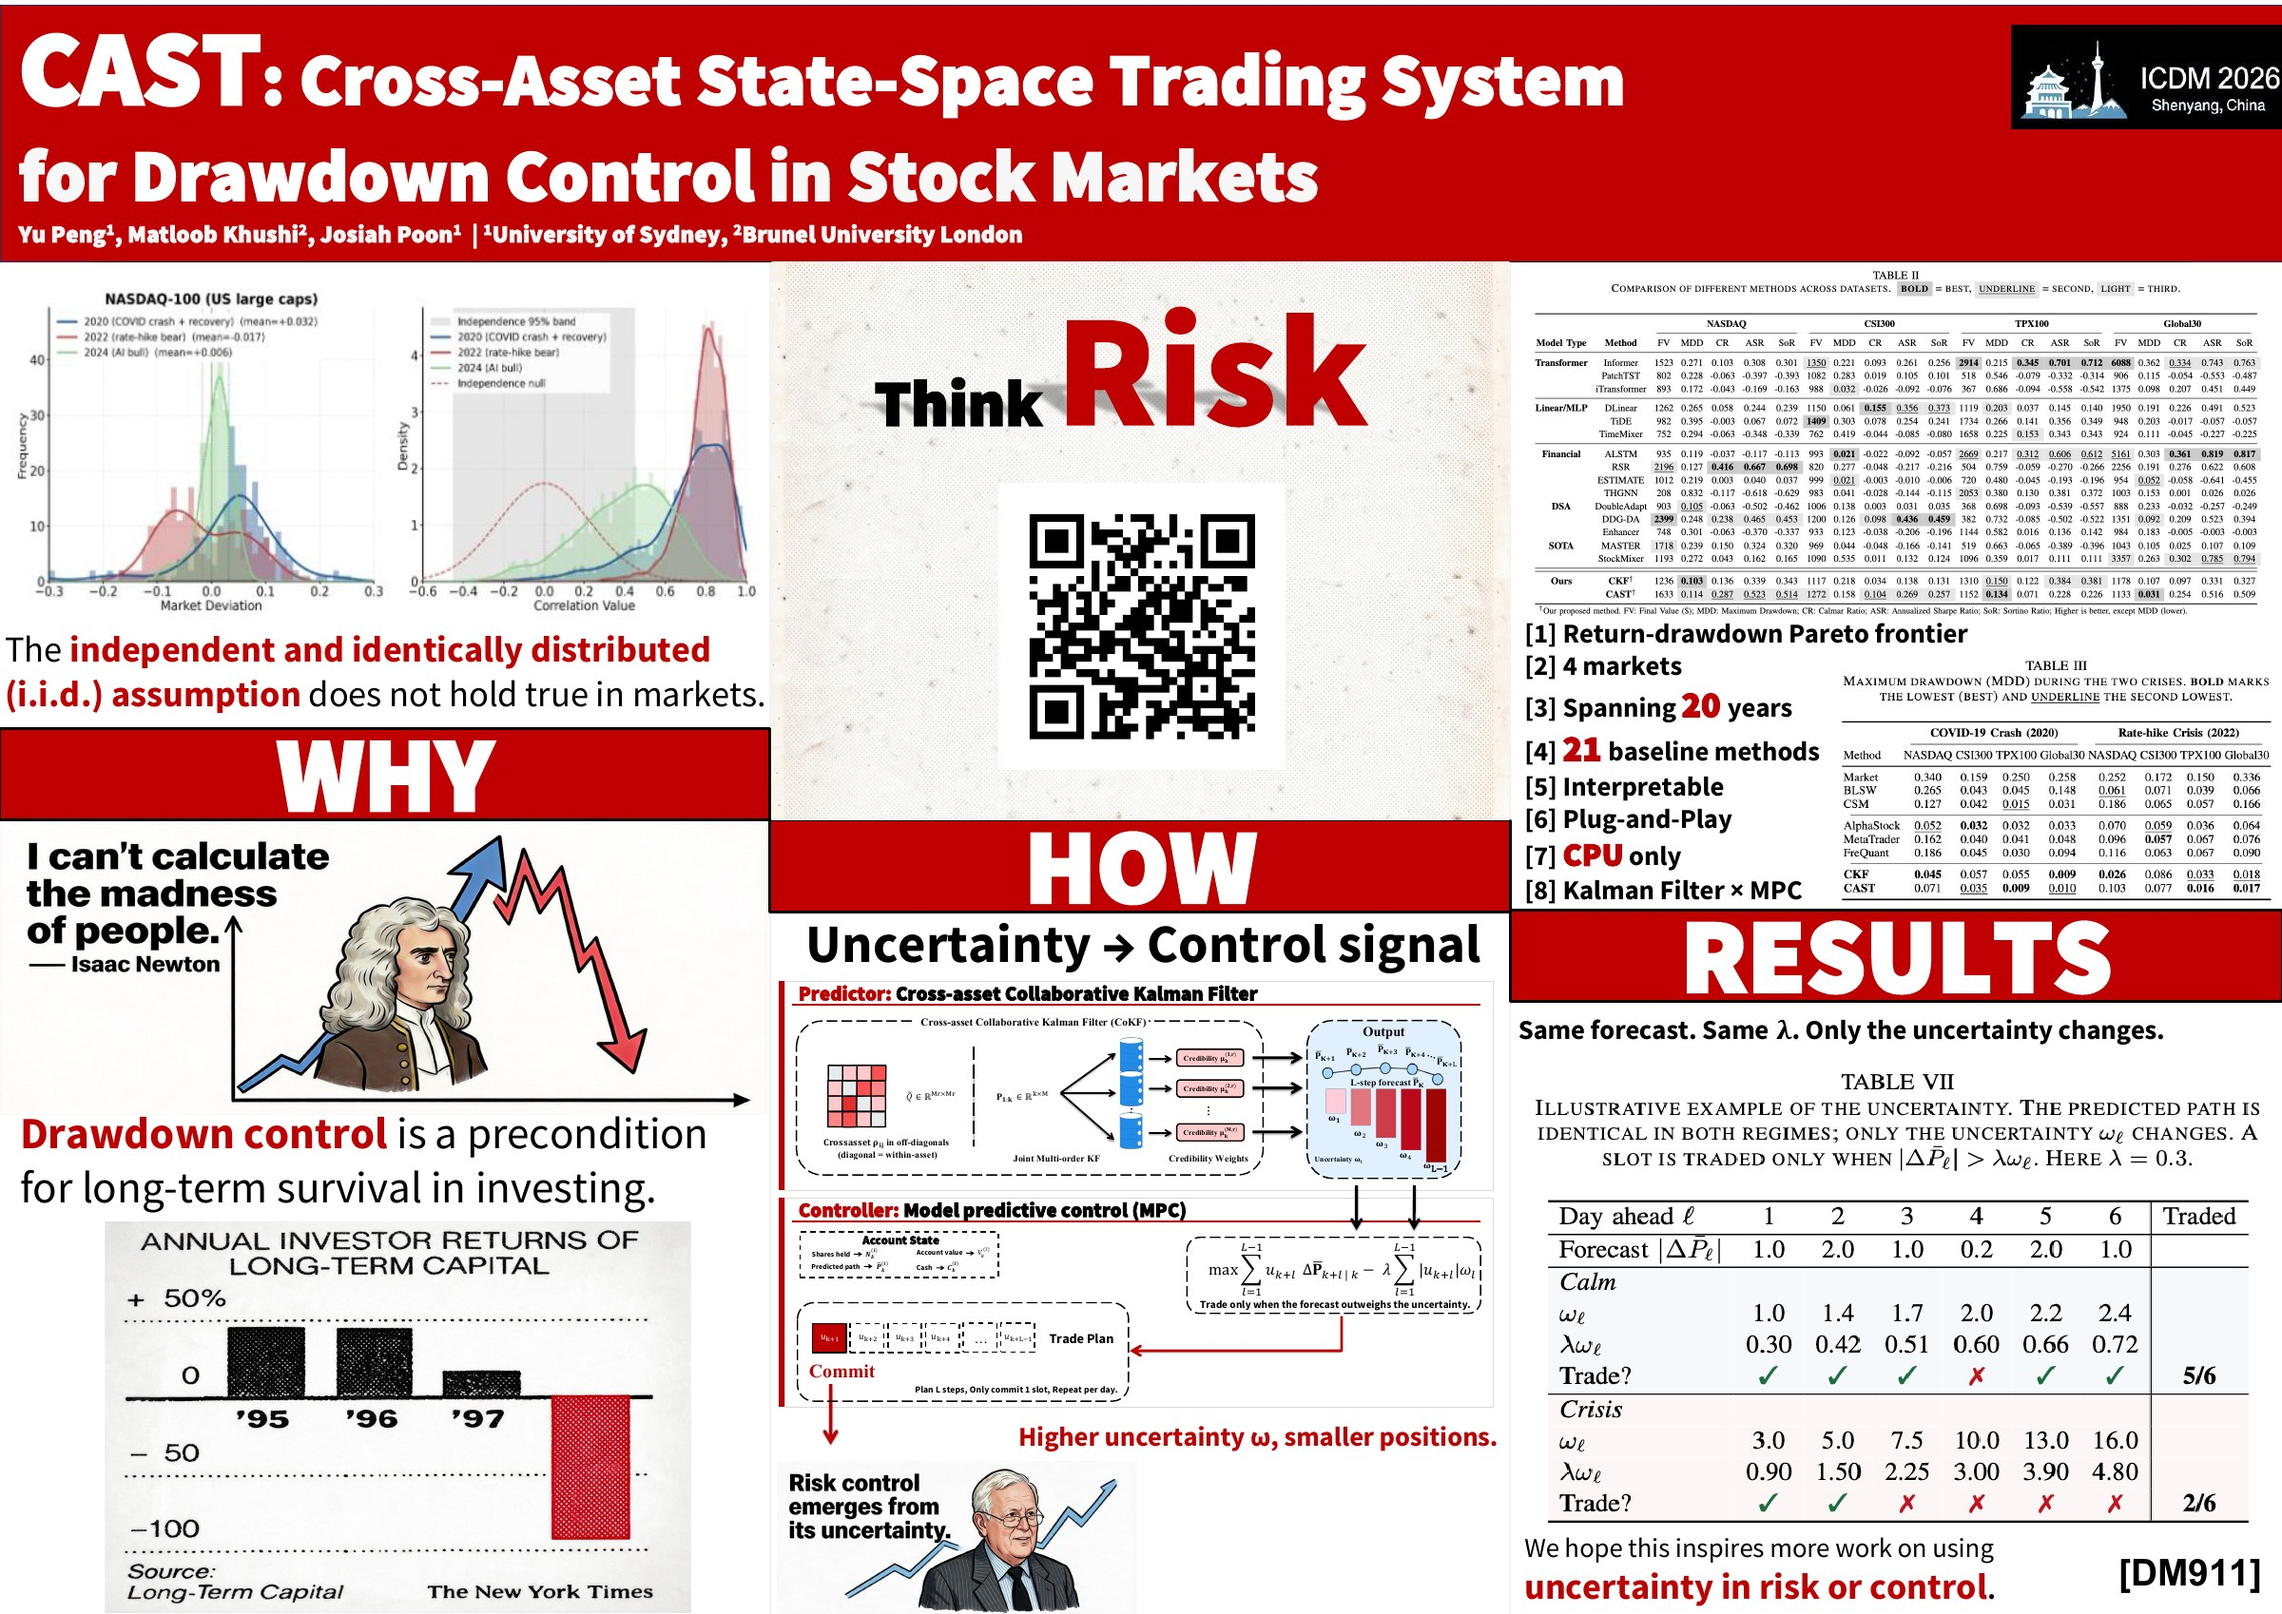
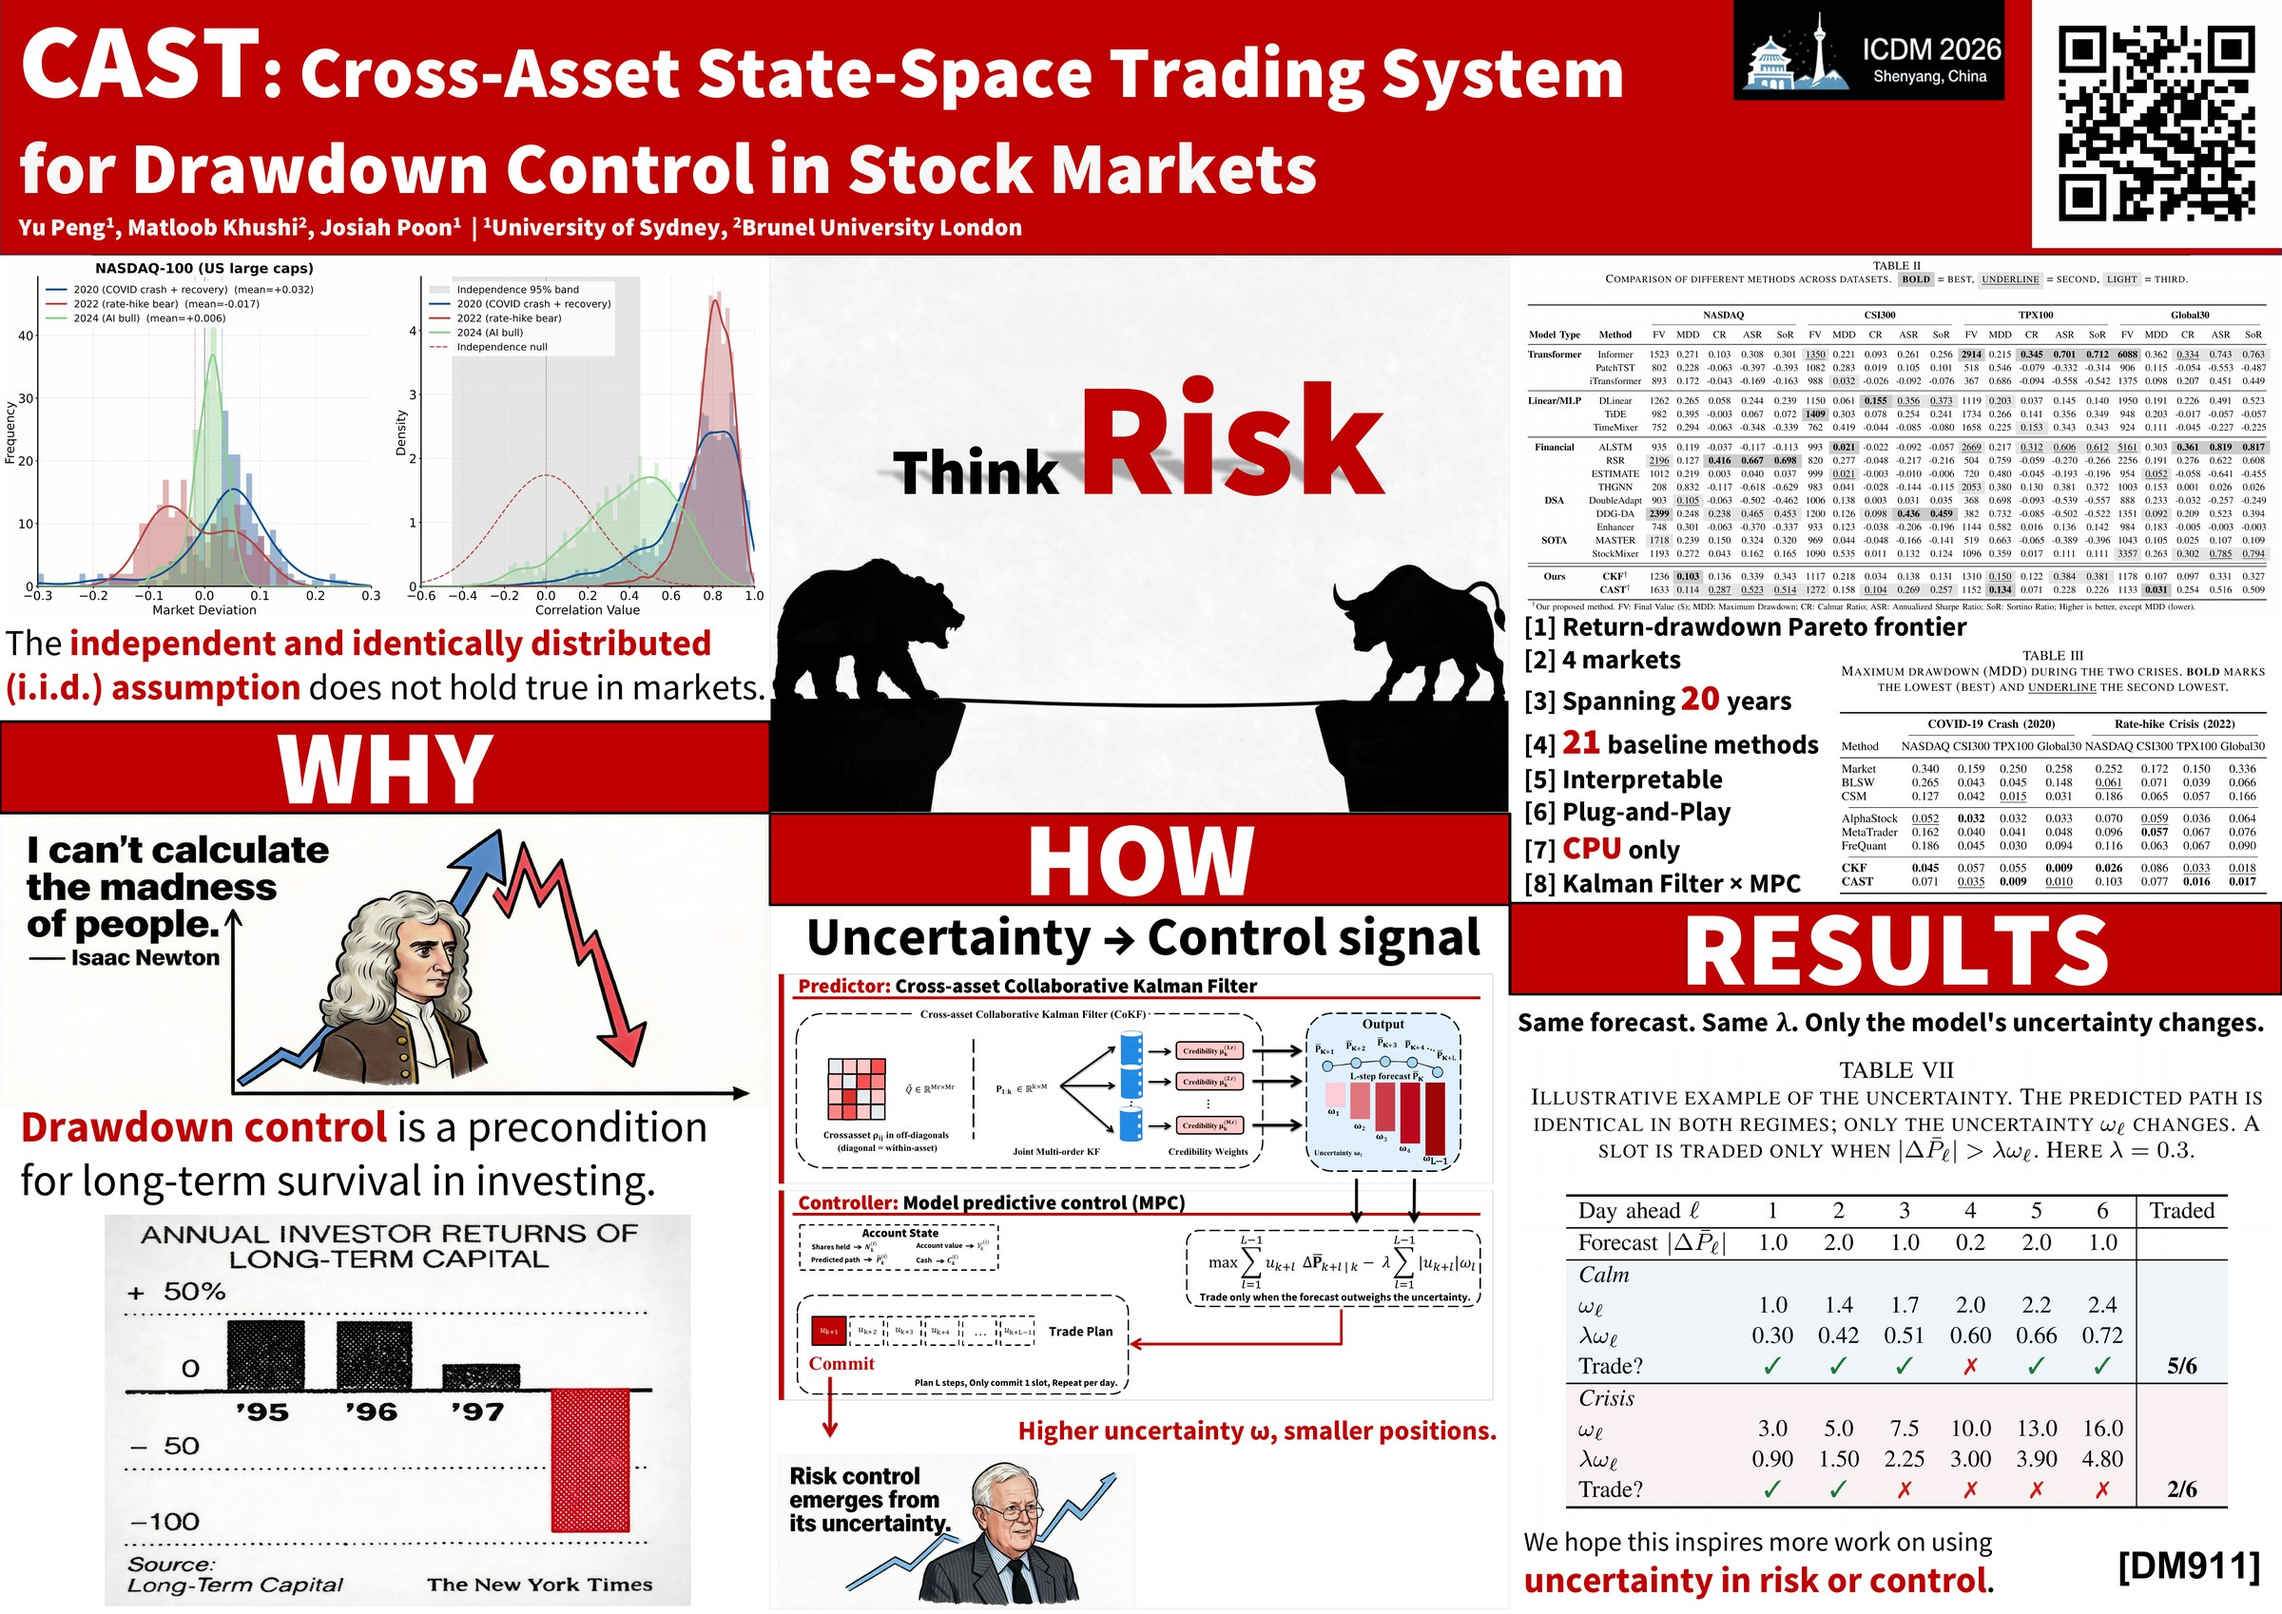
Project page: update poster image (bear-and-bull centre panel, QR code moved to header)
Rendered from the 2026-10-08 version of DM911.pdf at the same 2400x1698 size
as before; the image version in index.html is bumped so browsers reload it.

diff --git a/index.html b/index.html
@@ -342,7 +342,7 @@ a:focus-visible,.btn:focus-visible{outline:2px solid #C33A1C;outline-offset:3px}
 <div class="body-text" id="poster">
   <h2>Poster</h2>
   <figure>
-    <img src="figures/poster.jpg?v=2" width="2400" height="1698" loading="lazy" alt="CAST poster for IEEE ICDM 2026 (DM911): WHY, HOW and RESULTS panels">
+    <img src="figures/poster.jpg?v=3" width="2400" height="1698" loading="lazy" alt="CAST poster for IEEE ICDM 2026 (DM911): WHY, HOW and RESULTS panels">
     <figcaption><b>IEEE ICDM 2026 poster (DM911).</b></figcaption>
   </figure>
 </div>
